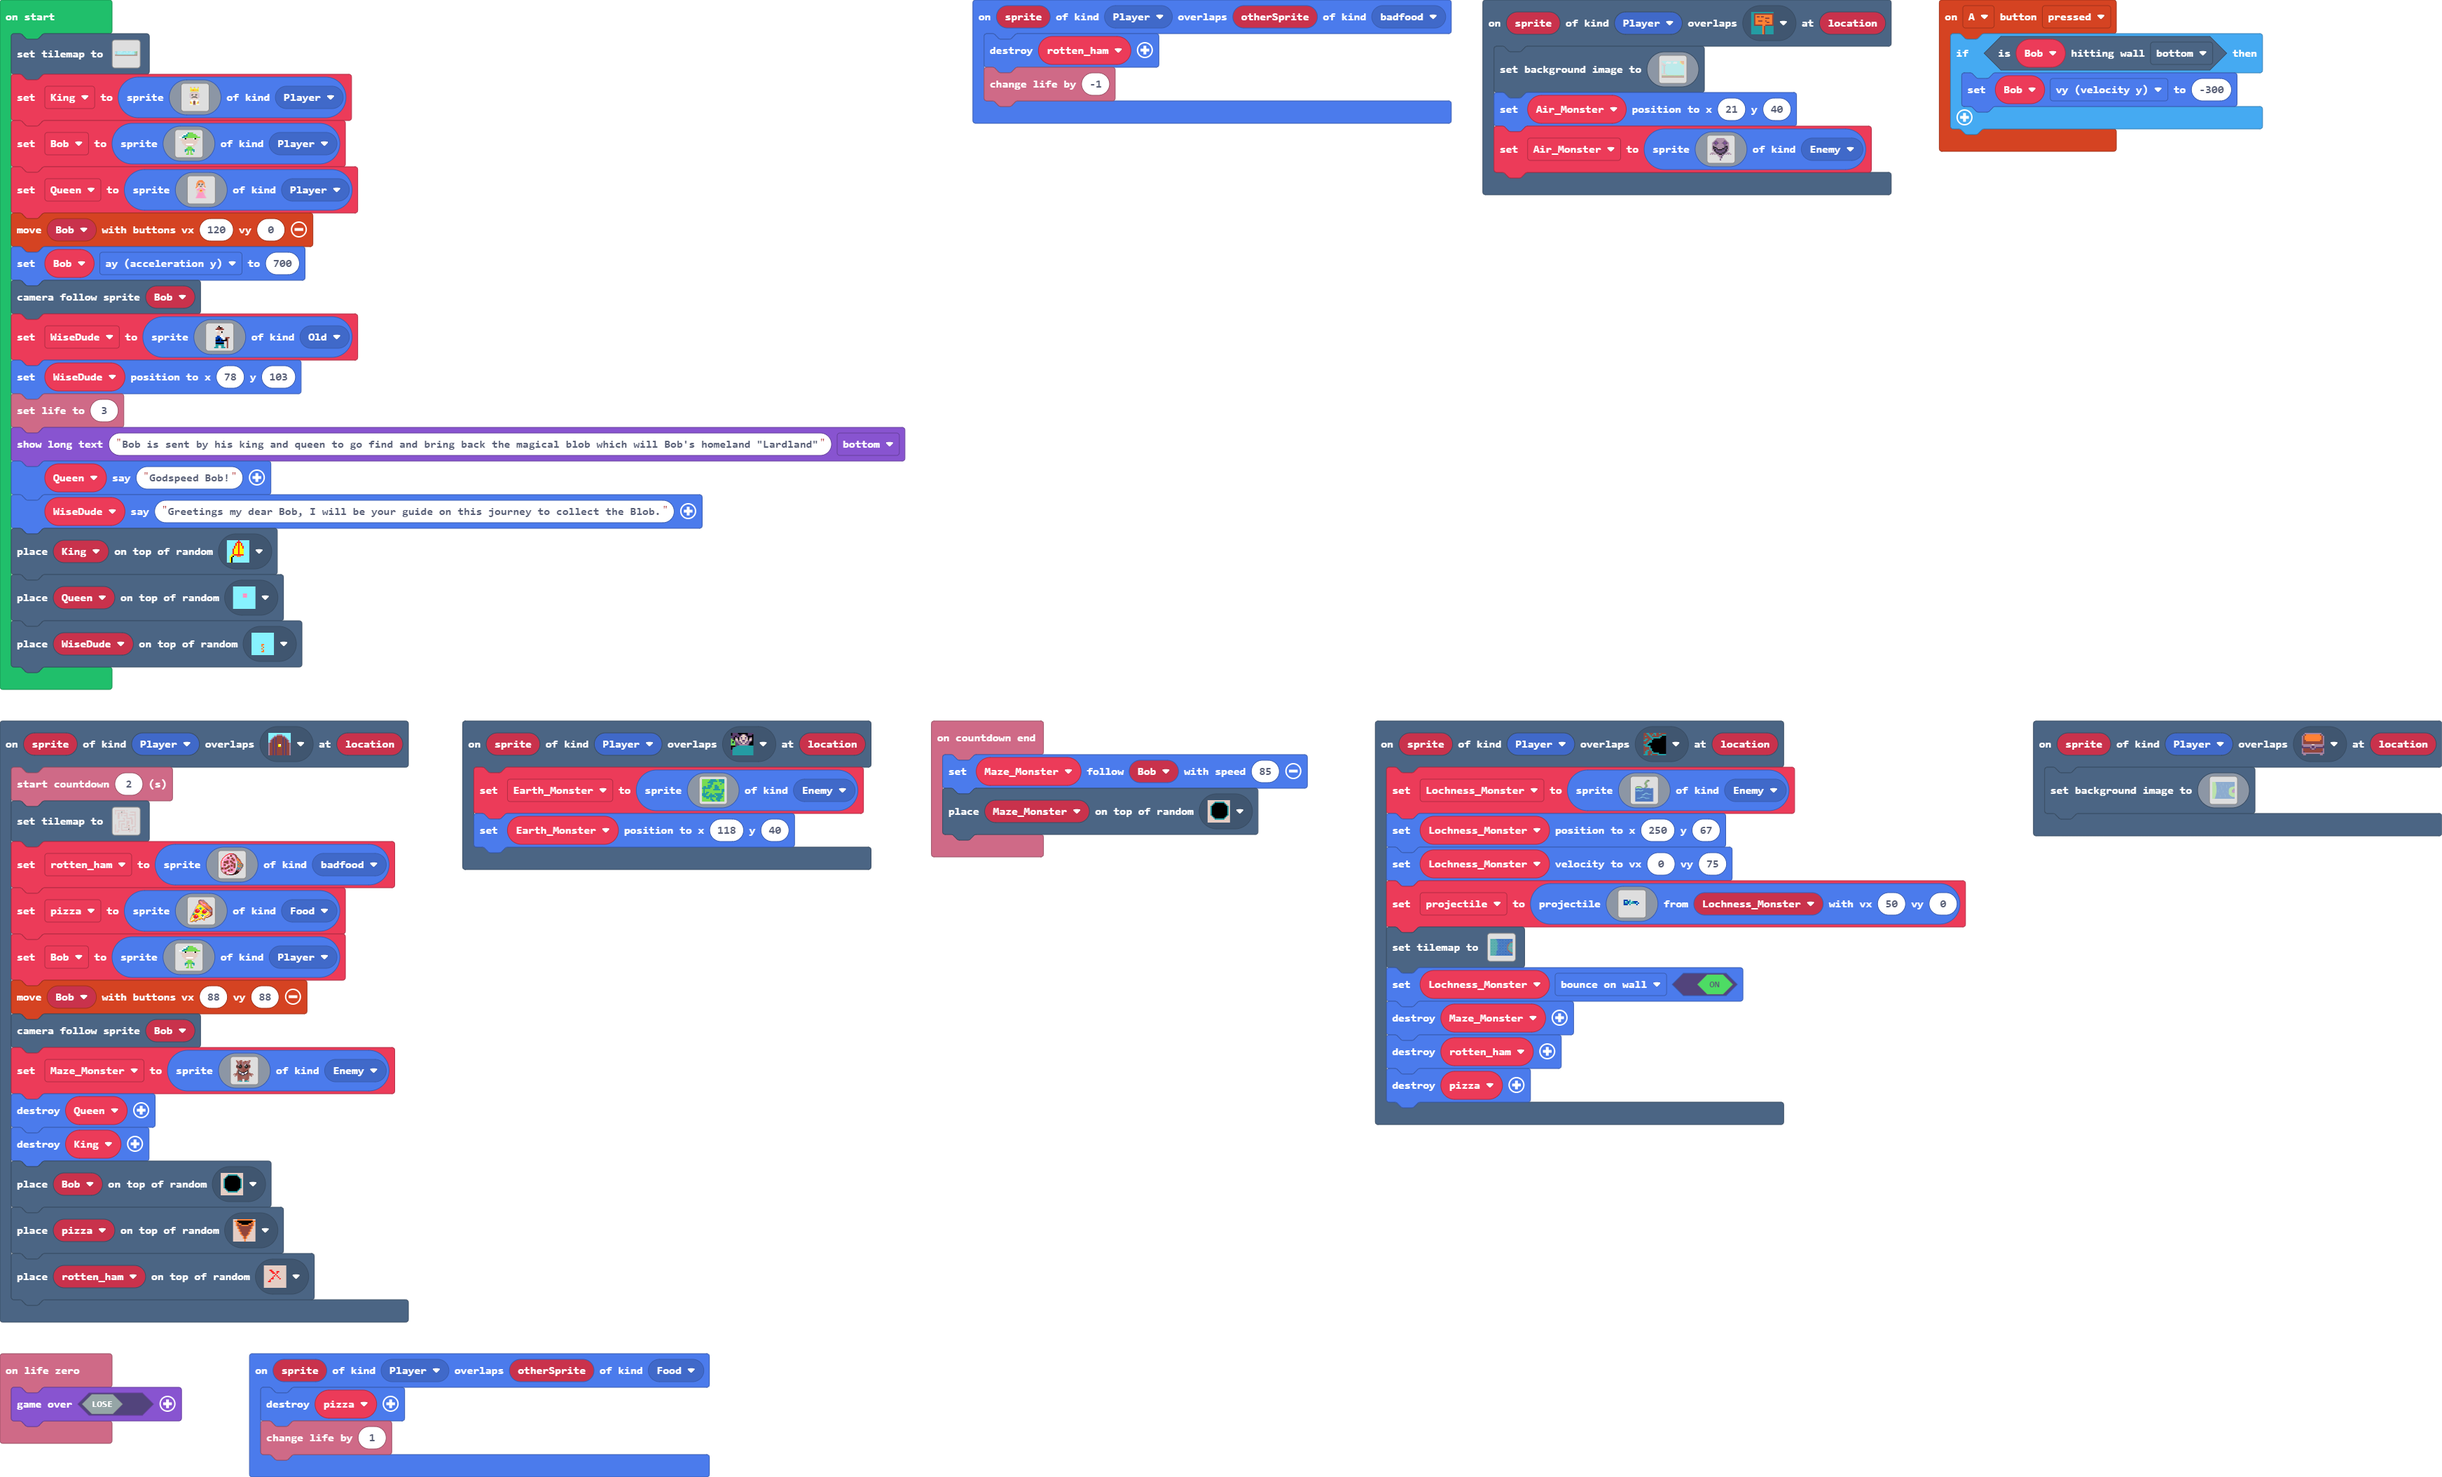
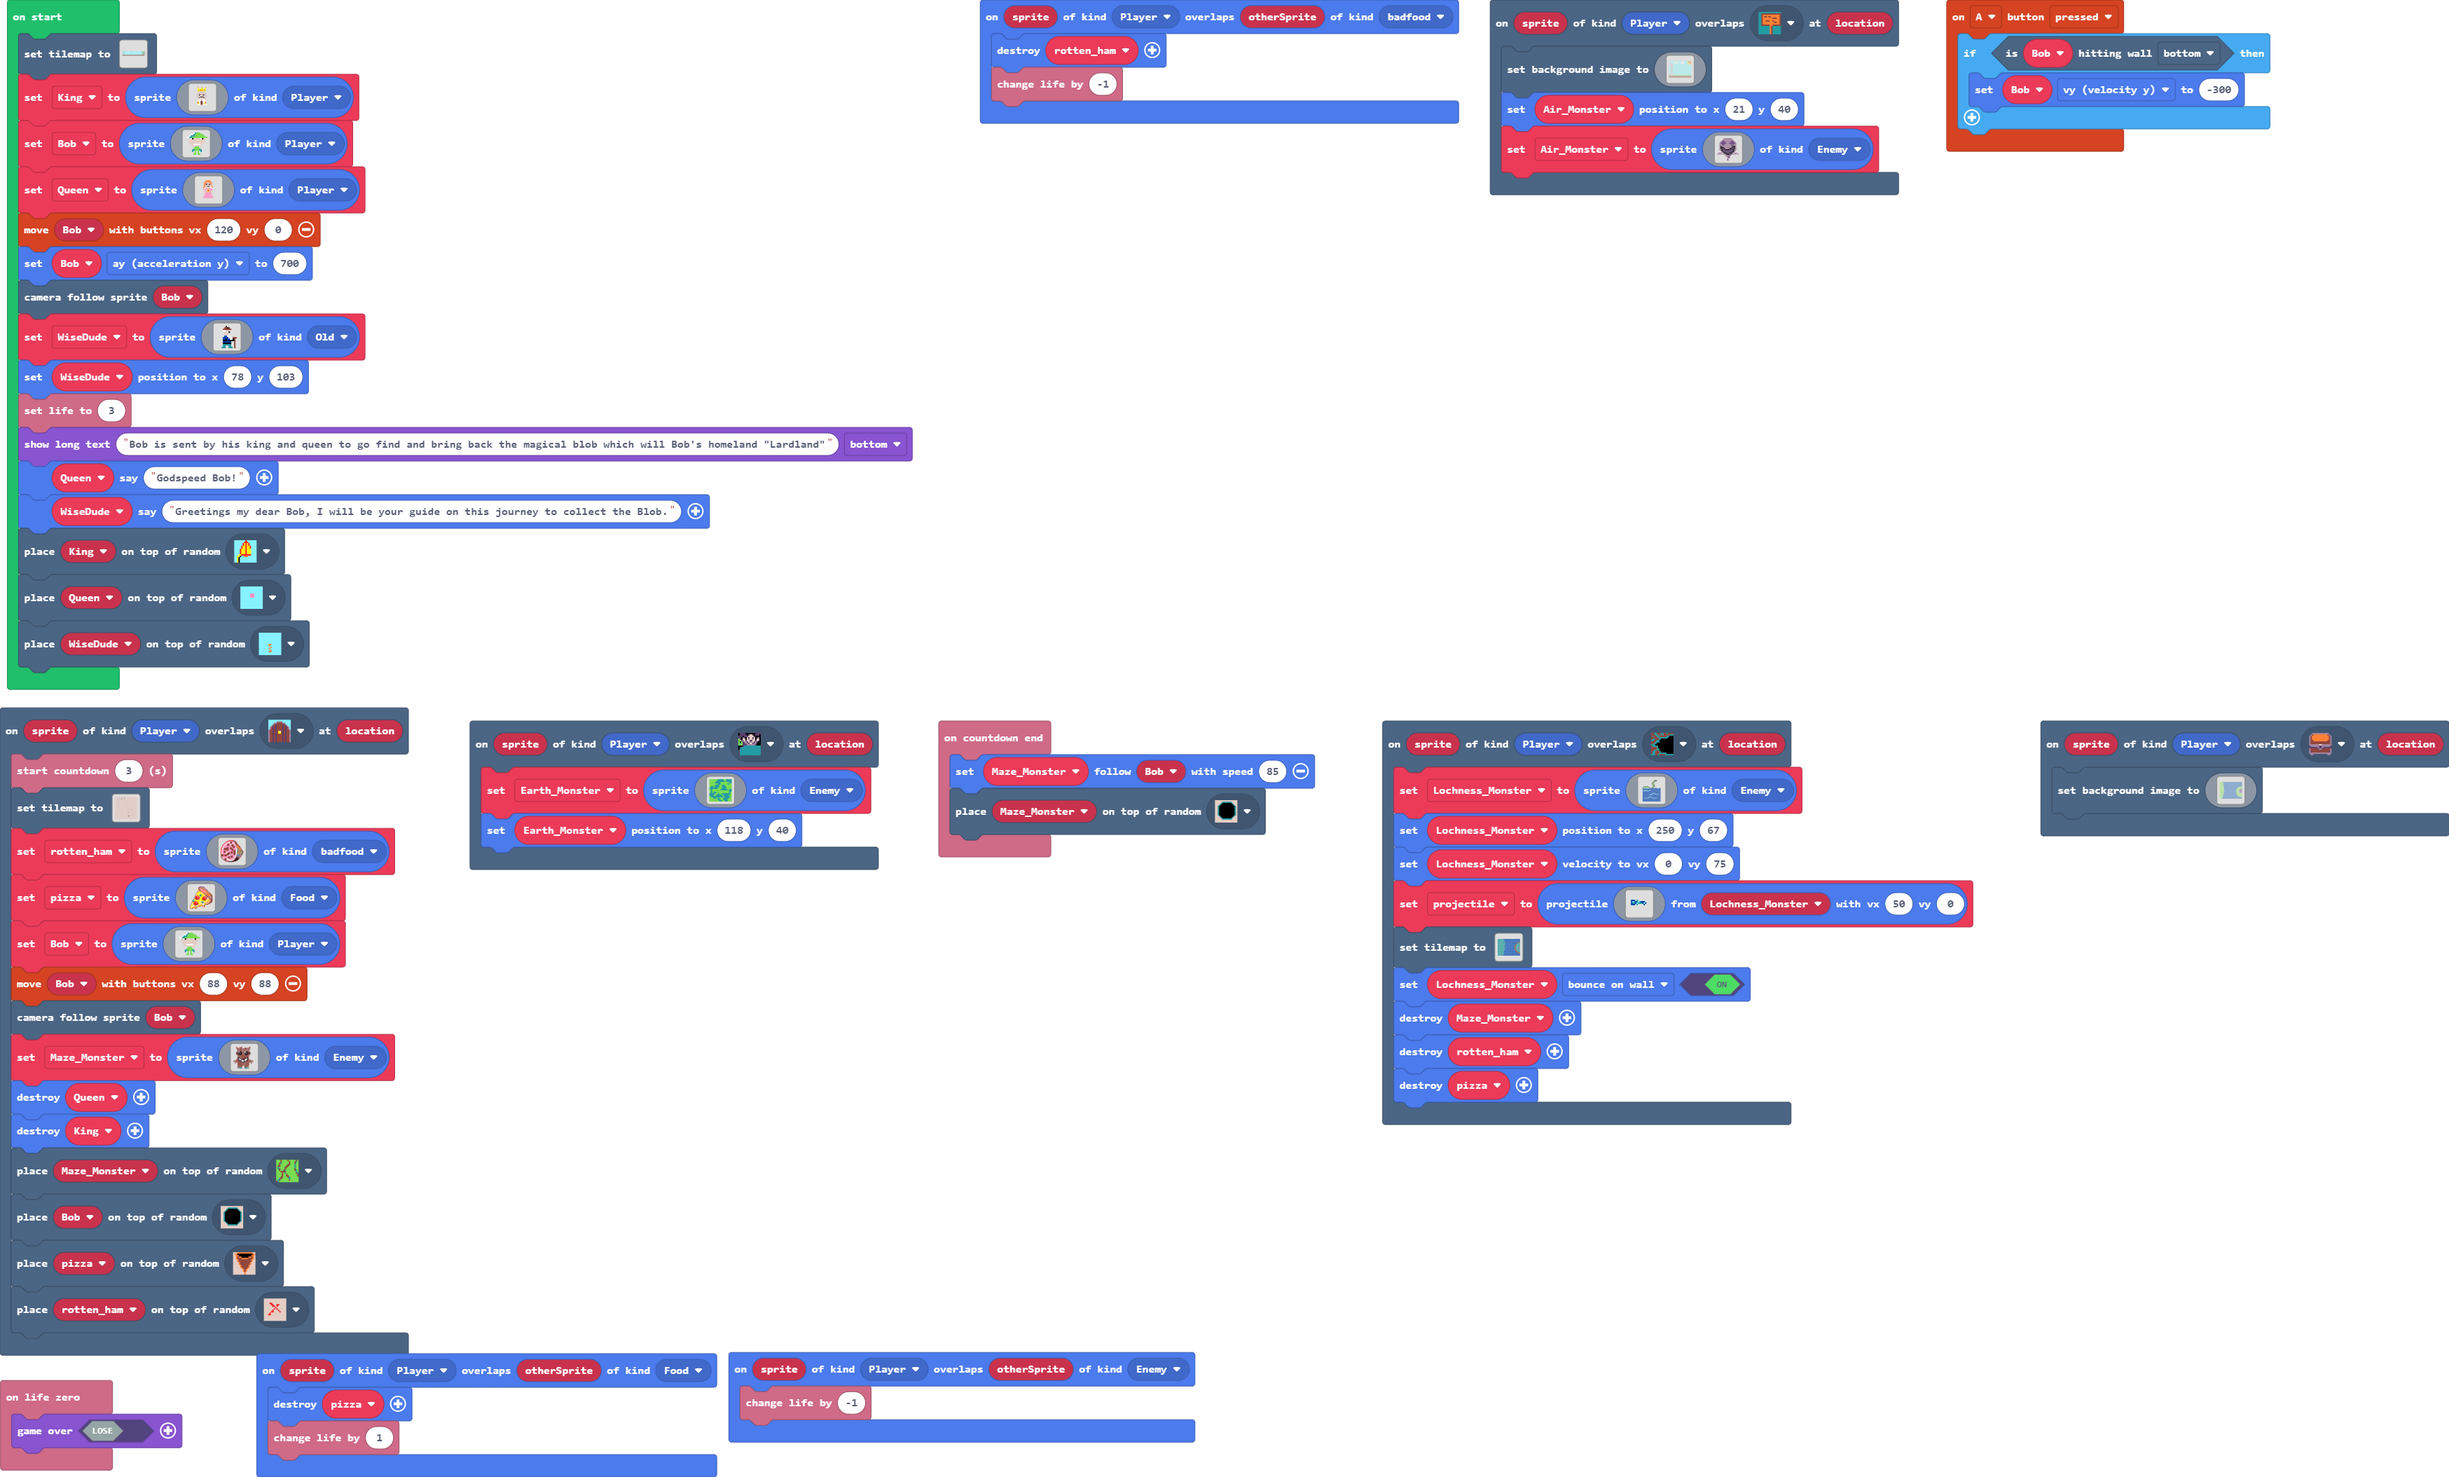
Update main.blocks, main.ts, tilemap.g.jres, tilemap.g.ts

diff --git a/main.ts b/main.ts
@@ -159,8 +159,8 @@ controller.A.onEvent(ControllerButtonEvent.Pressed, function () {
     }
 })
 scene.onOverlapTile(SpriteKind.Player, myTiles.tile8, function (sprite, location) {
-    info.startCountdown(2)
-    tiles.setTilemap(tiles.createTilemap(hex`1900190001010101010101010101010000010000000000000000000000010000000000000000000100000000000000000000000000000100000000000005000001000000000000010101010101000001000001010101010101010101010000000000000000010000010000010100000100000000000100000000000000000100000000000101000001000000000001000001010101010101000000000001010000010000010101010000000000000000010000000000010100000000000000000100000000000000000100000000000101000000000000000001000000010100000001000000000001010000000001010000010101010101000000010000000000000000000000000100000000000000010100000100000000000000000000000001000000000000000101000001000000000000010101010101010000010101000001010000010000000000000100000000000000000101010000010100000100000000000001000000000000000001010100000101000001000000000000010000010101010000010100000001010000010000010000000100000100000100000100000000000000000100000100000001000001000000000001000300000000000001000001000000010000010000000000010000000000010101010000010000000100000100000101010101010100000100000000000100000000000001000000000000000001000001000000000001000000000000010000000000000002010000010000010000010000010100000101010101010101010101010100000100000100000100000000000000000000000001000000000001000001000401000000000000000000000000010000000000010000`, img`
+    info.startCountdown(3)
+    tiles.setTilemap(tiles.createTilemap(hex`1900190001010101010101010101010606010606060606060606060606010606060606060606060706060606060606060606060606060106060606060605060601060606060606010101010101060601060601010101010101010101010606060606060606010606010606010106060106060606060106060606060606060106060606060101060601060606060601060601010101010101060606060601010606010606010101010606060606060606010606060606010106060606060606060106060606060606060106060606060101060606060606060601060606010106060601060606060601010606060601010606010101010101060606010606060606060606060606060106060606060606010106060106060606060606060606060601060606060606060101060601060606060606010101010101010606010101060601010606010606060606060106060606060606060101010606010106060106060606060601060606060606060601010106060101060601060606060606010606010101010606010106060601010606010606010606060106060106060106060106060606060606060106060106060601060601060606060601060306060606060601060601060606010606010606060606010606060606010101010606010606060106060106060101010101010106060106060606060106060606060601060606060606060601060601060606060601060606060606010606060606060602010606010606010606010606010106060101010101010101010101010106060106060106060106060606060606060606060601060606060601060601060401060606060606060606060606010606060606010606`, img`
         22222222222..2...........
         2.........2..............
         2.........2......222222..
@@ -186,7 +186,7 @@ scene.onOverlapTile(SpriteKind.Player, myTiles.tile8, function (sprite, location
         2..22..2222222222222..2..
         2..2............2.....2..
         2..2............2.....2..
-        `, [myTiles.transparency16,sprites.dungeon.floorLight0,myTiles.tile17,myTiles.tile43,myTiles.tile44,myTiles.tile18], TileScale.Sixteen))
+        `, [myTiles.transparency16,sprites.dungeon.floorLight0,myTiles.tile17,myTiles.tile43,myTiles.tile44,myTiles.tile18,sprites.castle.tilePath5,myTiles.tile16], TileScale.Sixteen))
     rotten_ham = sprites.create(img`
         ...........222222ee.............
         .........2233333bbeee...........
@@ -309,6 +309,7 @@ scene.onOverlapTile(SpriteKind.Player, myTiles.tile8, function (sprite, location
         `, SpriteKind.Enemy)
     Queen.destroy()
     King.destroy()
+    tiles.placeOnRandomTile(Maze_Monster, myTiles.tile16)
     tiles.placeOnRandomTile(Bob, myTiles.tile18)
     tiles.placeOnRandomTile(pizza, myTiles.tile43)
     tiles.placeOnRandomTile(rotten_ham, myTiles.tile44)
@@ -578,6 +579,9 @@ info.onLifeZero(function () {
 sprites.onOverlap(SpriteKind.Player, SpriteKind.Food, function (sprite, otherSprite) {
     pizza.destroy()
     info.changeLifeBy(1)
+})
+sprites.onOverlap(SpriteKind.Player, SpriteKind.Enemy, function (sprite, otherSprite) {
+    info.changeLifeBy(-1)
 })
 let projectile: Sprite = null
 let Lochness_Monster: Sprite = null

diff --git a/tilemap.g.ts b/tilemap.g.ts
@@ -90,6 +90,8 @@ namespace myTiles {
     export const tile44 = image.ofBuffer(hex``);
     //% fixedInstance jres blockIdentity=images._tile
     export const tile45 = image.ofBuffer(hex``);
+    //% fixedInstance jres blockIdentity=images._tile
+    export const tile16 = image.ofBuffer(hex``);
 
 }
 // Auto-generated code. Do not edit.
